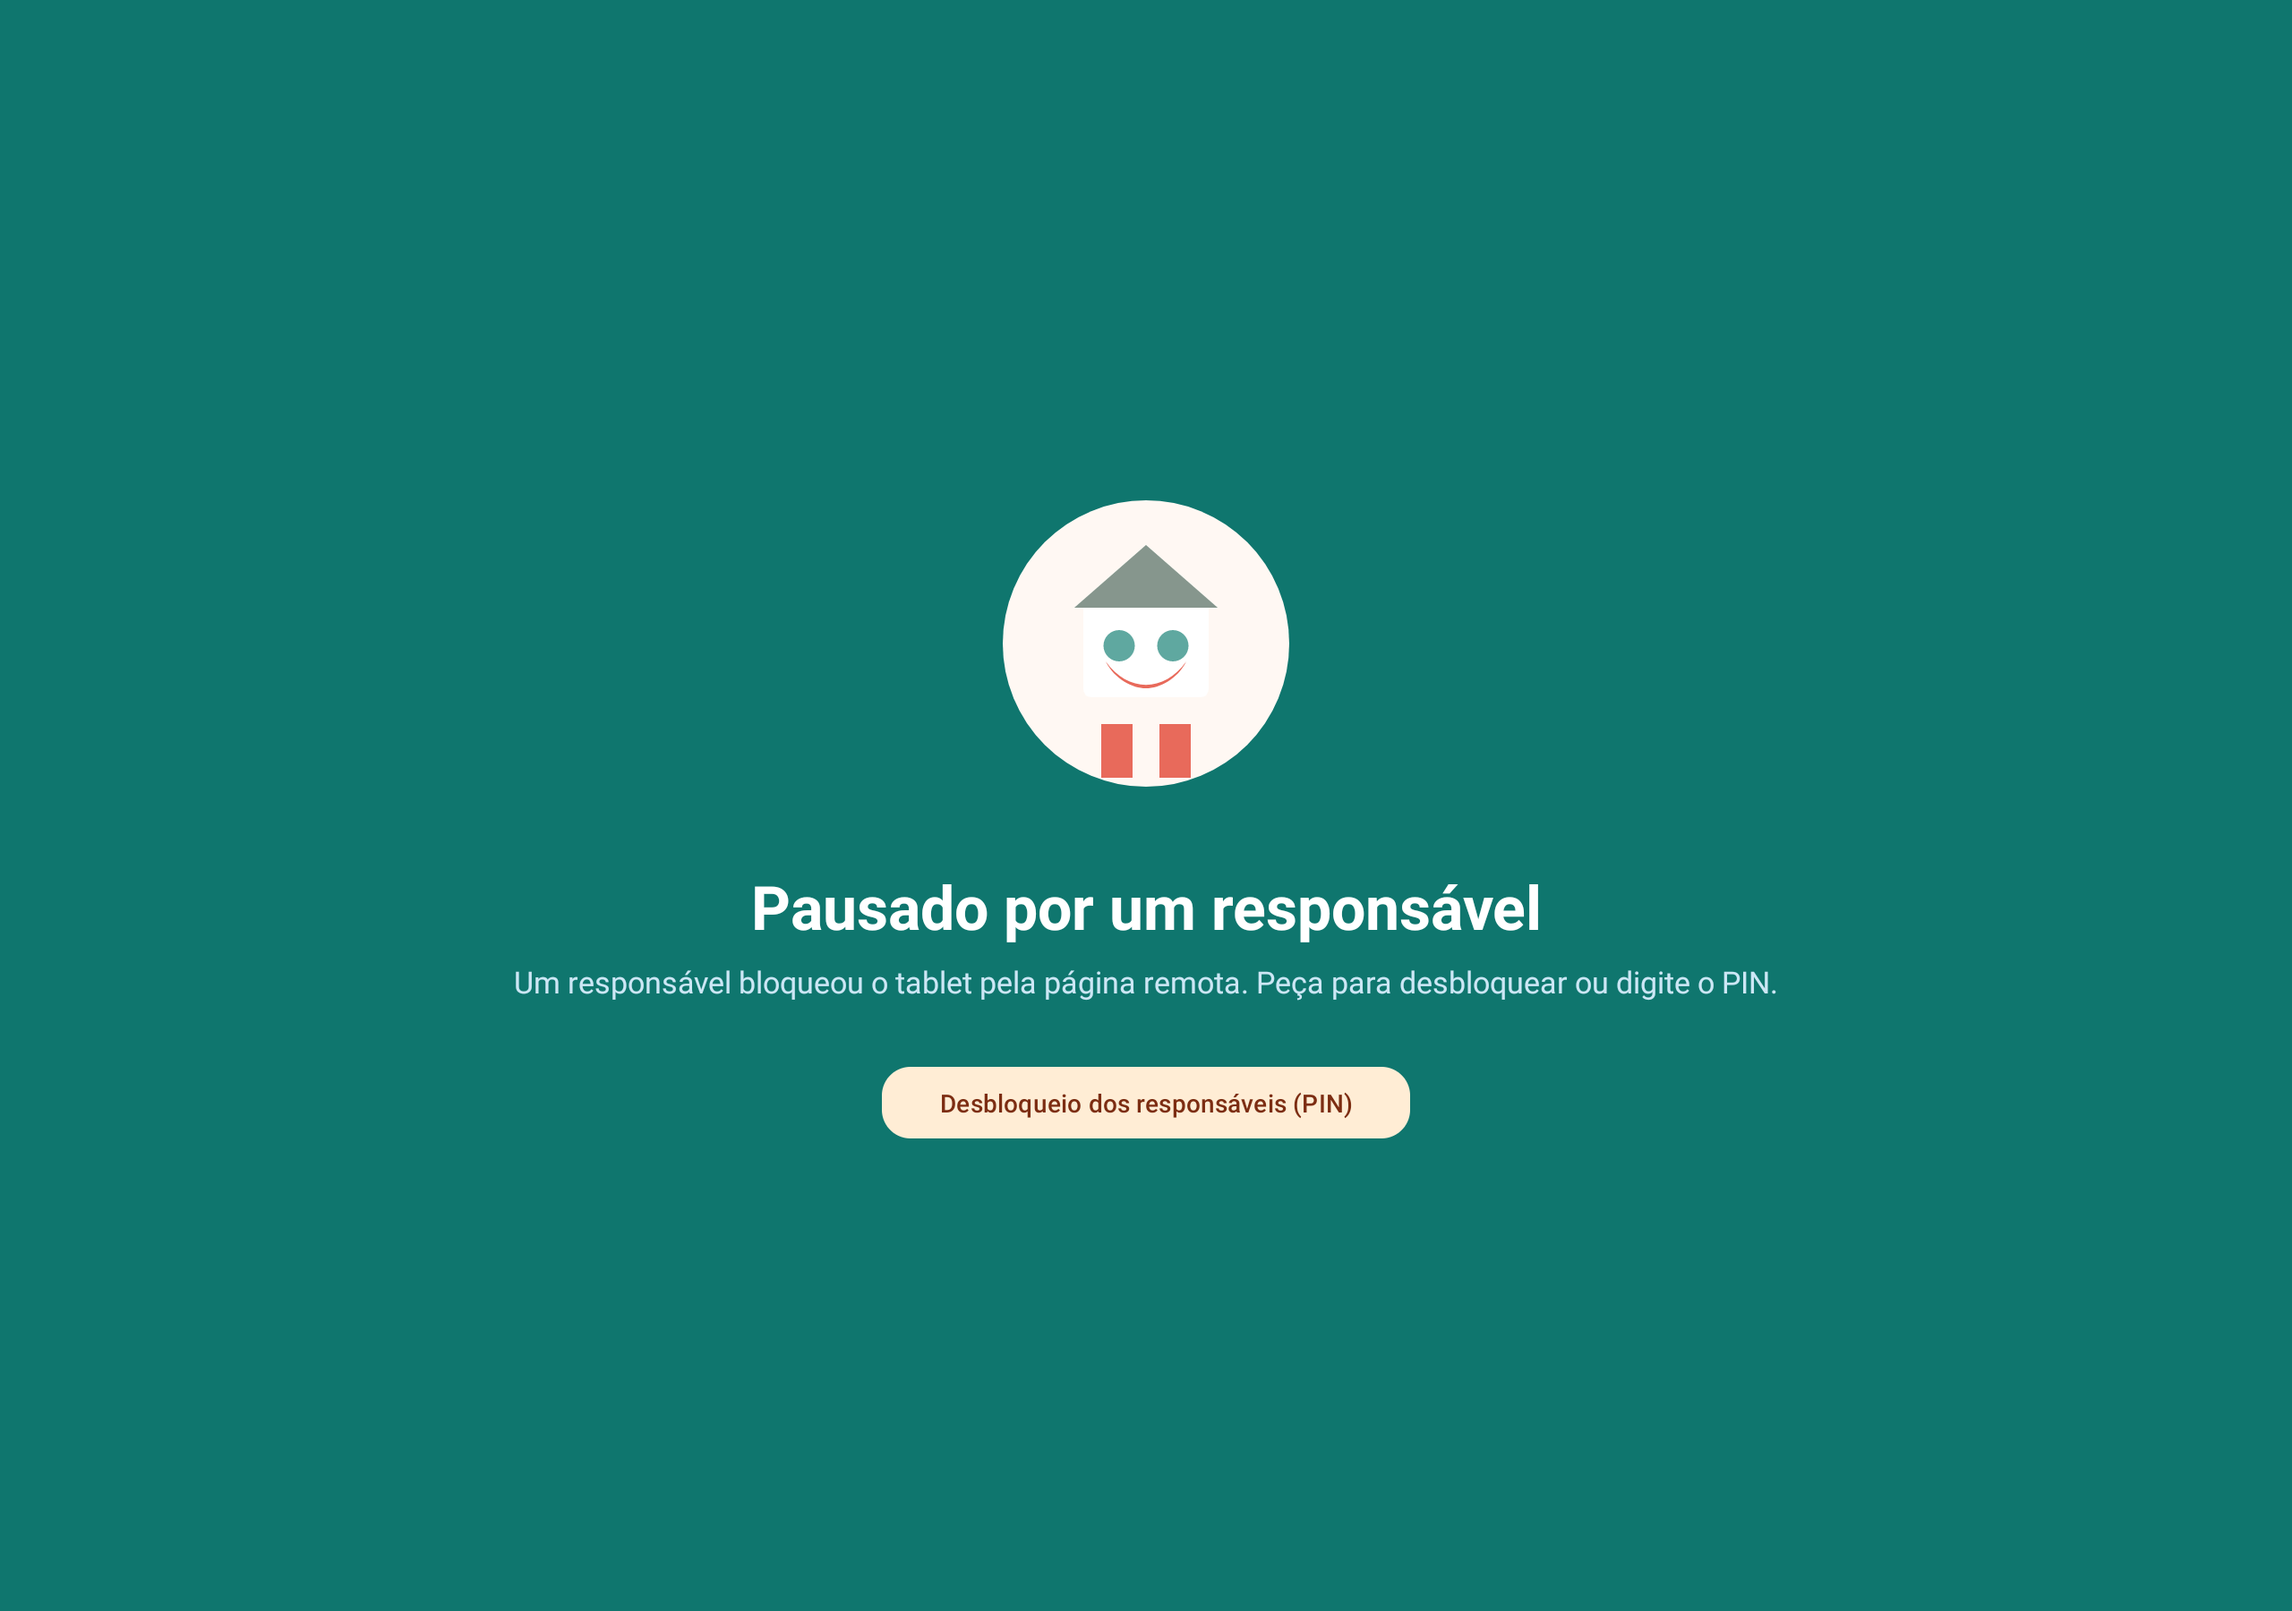
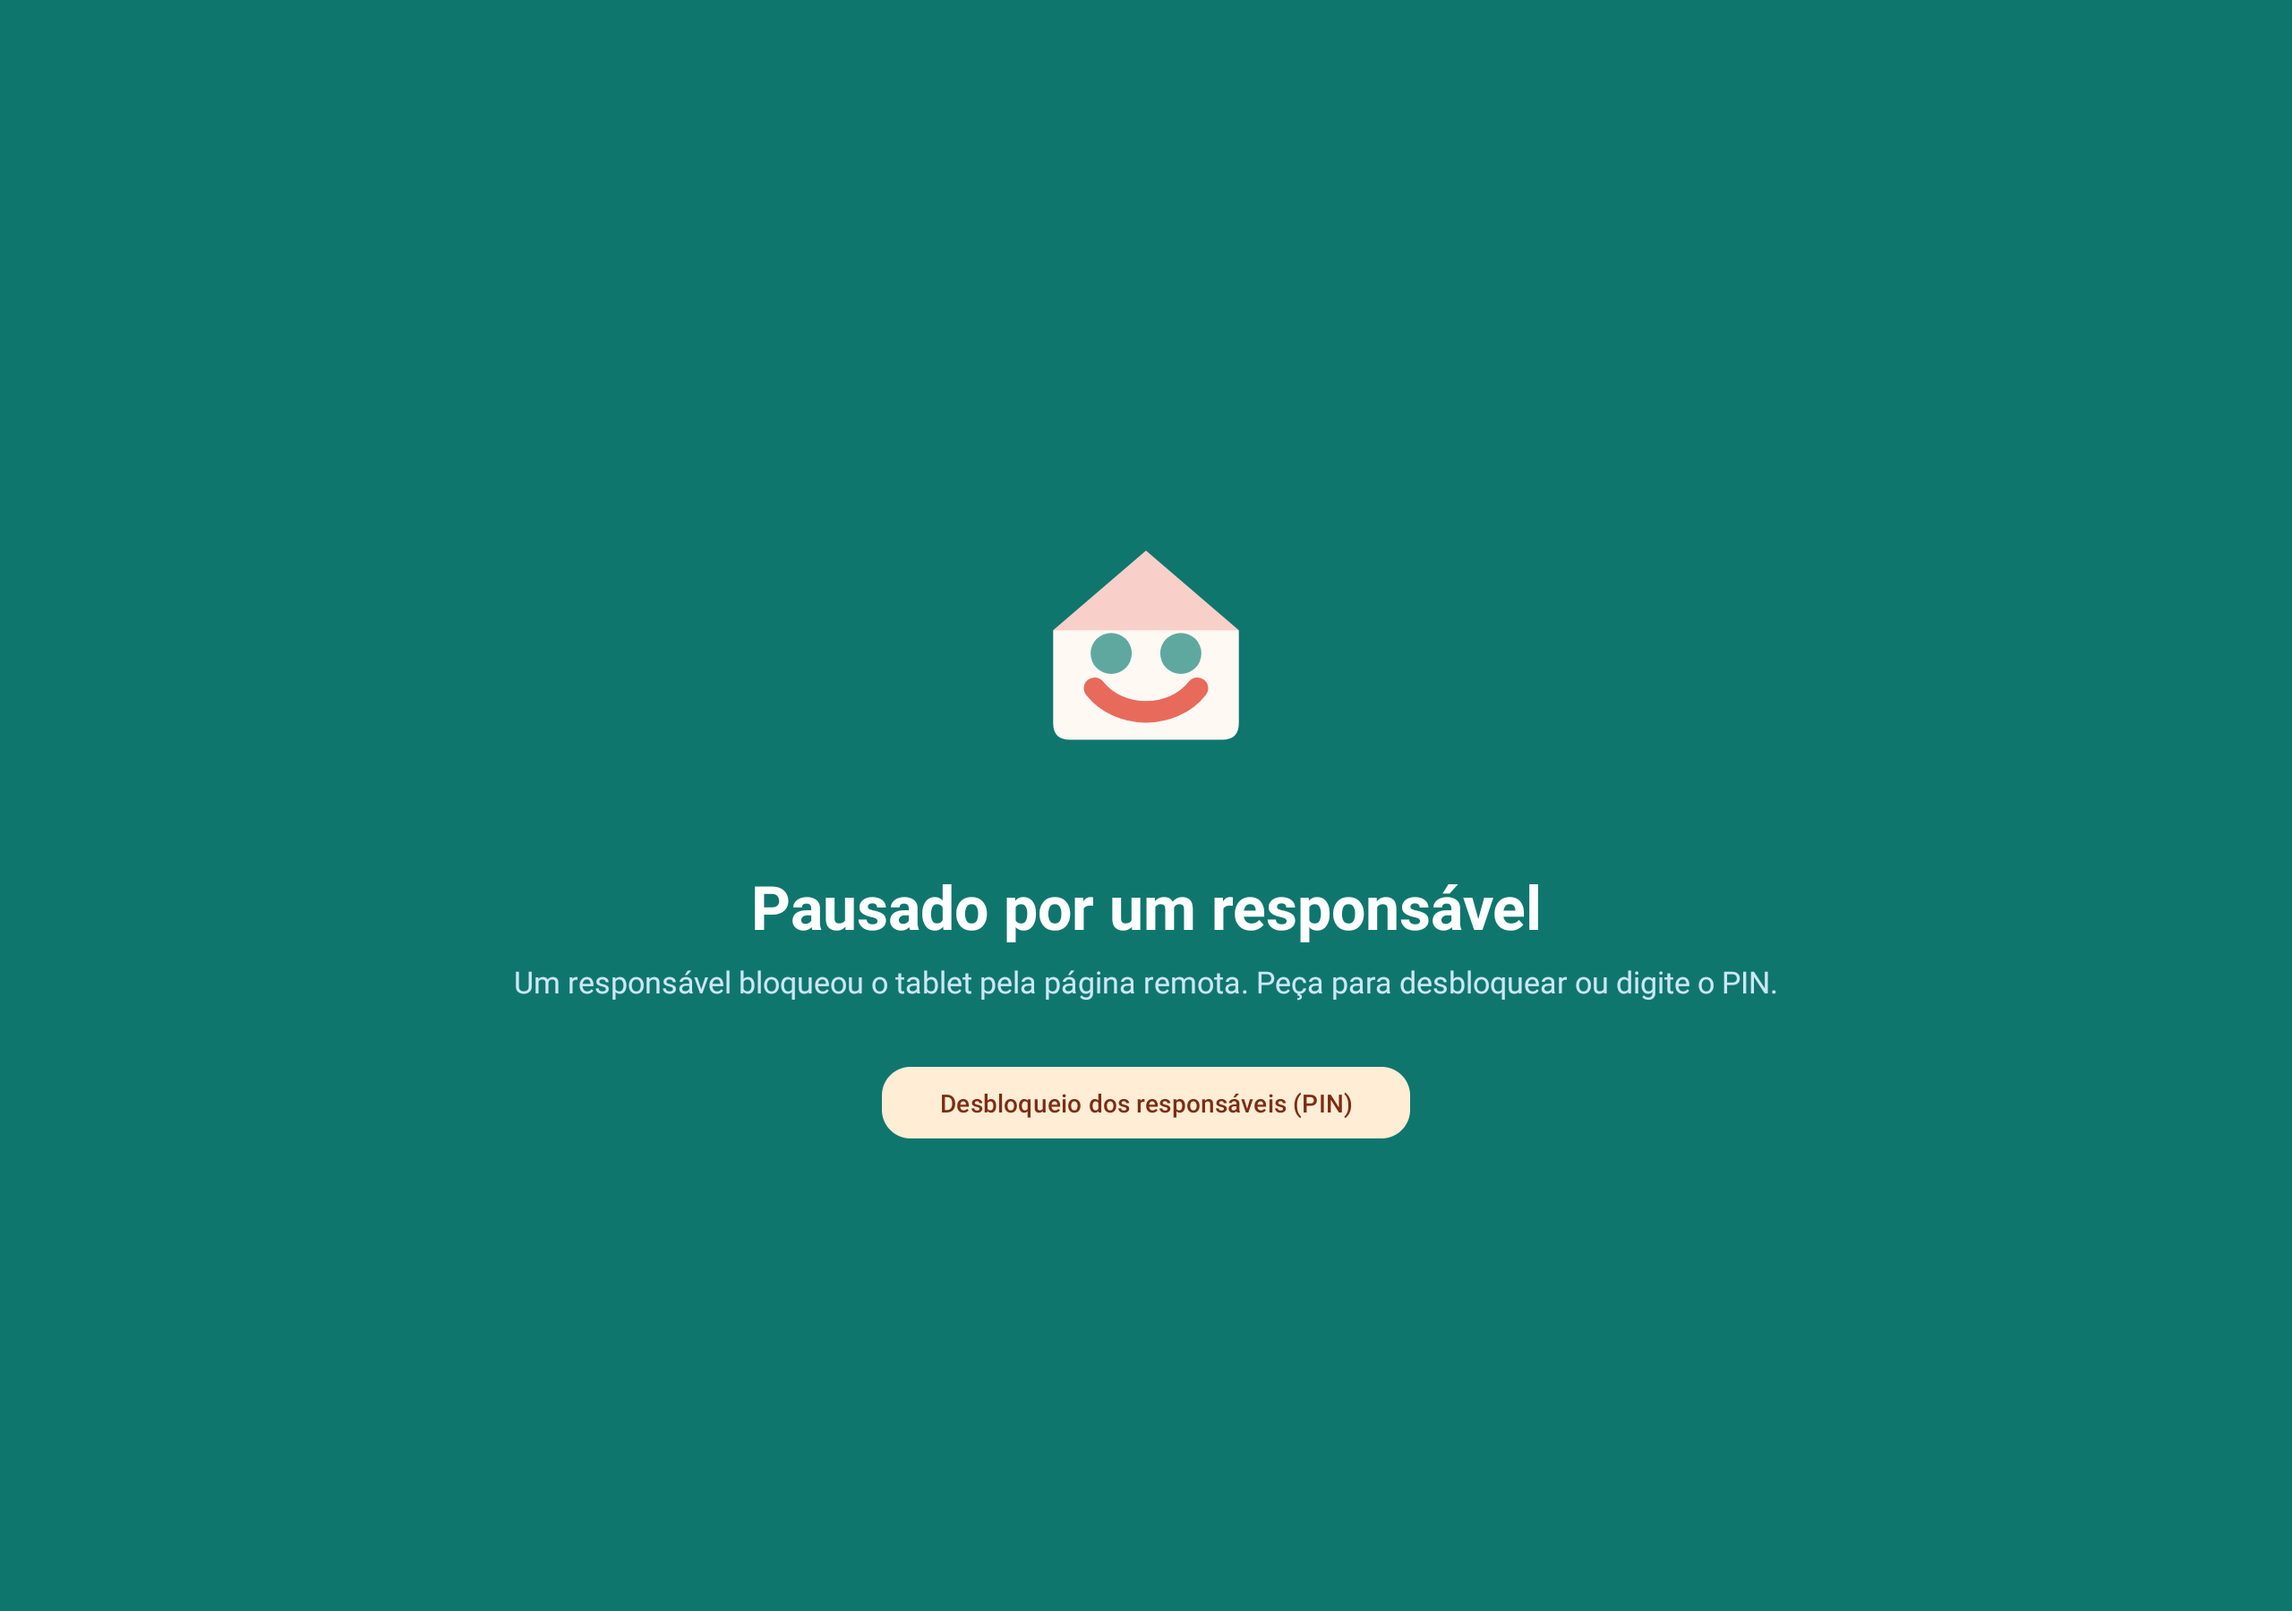
Fix remote locked UI washout and reuse official KidsHome mark
Remove opacity fade on the remote dashboard so the locked phone page
stays fully legible, with a Bloqueado banner and Desbloquear as primary.
Point lock-screen and web header marks at the official brand vectors.

Changed region(s): [[0.4375, 0.3111, 0.5625, 0.4978]]

diff --git a/app/src/main/assets/remote/style.css b/app/src/main/assets/remote/style.css
@@ -55,7 +55,8 @@ html, body {
   height: 56px;
   border-radius: 16px;
   box-shadow: 0 8px 20px rgba(232, 106, 91, 0.22);
-  background: #FFF8F3;
+  display: block;
+  background: transparent;
 }
 .brand-mark {
   margin: 0;
@@ -78,19 +79,24 @@ html, body {
   animation: rise 0.9s ease both;
 }
 
+/* Transform-only: opacity fades made locked screenshots / late paints look washed out. */
 @keyframes rise {
-  from { opacity: 0; transform: translateY(10px); }
-  to { opacity: 1; transform: translateY(0); }
+  from { transform: translateY(10px); }
+  to { transform: translateY(0); }
 }
 
 .panel {
   margin-top: 22px;
   padding: 18px;
-  background: var(--card);
+  background: #fff;
   border-radius: var(--radius);
   box-shadow: var(--shadow);
-  backdrop-filter: blur(8px);
-  animation: rise 0.75s ease both;
+  opacity: 1;
+  animation: rise 0.45s ease both;
+}
+
+.panel[hidden] {
+  display: none !important;
 }
 
 .panel h2 {
@@ -131,9 +137,16 @@ html, body {
   transition: transform 0.15s ease, background 0.15s ease;
 }
 .btn:active { transform: scale(0.97); }
-.btn.primary { background: var(--coral); color: #fff; width: 100%; margin-top: 8px; }
+.btn.primary { background: var(--coral); color: #fff; }
+#btnLogin.btn.primary { width: 100%; margin-top: 8px; }
+.actions.stack .btn.primary { width: auto; margin-top: 0; }
 .btn.danger { background: var(--danger); color: #fff; }
 .btn.teal { background: var(--teal); color: #fff; }
+.btn.secondary {
+  background: #fff;
+  color: var(--ink);
+  border: 1.5px solid rgba(42, 36, 32, 0.16);
+}
 .btn.ghost { background: transparent; box-shadow: none; color: var(--muted); width: 100%; margin-top: 18px; }
 
 .actions {
@@ -169,6 +182,49 @@ html, body {
 .chip.ok { background: rgba(95, 168, 160, 0.22); color: #2F6B64; }
 .chip.warn { background: rgba(232, 184, 74, 0.28); color: #7A5A12; }
 .chip.bad { background: rgba(232, 106, 91, 0.22); color: #8E3A31; }
+
+.lock-banner {
+  display: flex;
+  flex-direction: column;
+  gap: 4px;
+  margin: 0 0 16px;
+  padding: 14px 16px;
+  border-radius: 16px;
+  background: rgba(232, 106, 91, 0.14);
+  border: 2px solid var(--coral);
+  color: #8E3A31;
+}
+.lock-banner[hidden] { display: none !important; }
+.lock-banner strong {
+  font-size: 1.05rem;
+  letter-spacing: 0.01em;
+}
+.lock-banner span {
+  font-size: 0.9rem;
+  font-weight: 600;
+  opacity: 0.9;
+}
+
+#dashboard.is-locked .chip.bad {
+  background: var(--coral);
+  color: #fff;
+}
+
+#dashboard.is-locked #btnUnlock {
+  background: var(--coral);
+  color: #fff;
+  box-shadow: 0 8px 18px rgba(232, 106, 91, 0.28);
+}
+
+#dashboard.is-locked #btnLock {
+  background: #fff;
+  color: var(--ink);
+  border: 1.5px solid rgba(42, 36, 32, 0.16);
+}
+
+@media (prefers-reduced-motion: reduce) {
+  .bg, .brand-row, .brand h1, .lede, .panel, .toast { animation: none !important; }
+}
 
 .meter {
   height: 12px;

diff --git a/app/src/main/assets/remote/app.js b/app/src/main/assets/remote/app.js
@@ -37,6 +37,8 @@
       added: "Time added",
       lockedNow: "Tablet locked",
       unlockedNow: "Remote lock cleared",
+      lockBannerTitle: "Locked",
+      lockBannerHint: "The tablet is locked. Unlock when ready — you can still add time.",
       appLimit: "limit %n% min"
     },
     "pt-BR": {
@@ -74,6 +76,8 @@
       added: "Tempo adicionado",
       lockedNow: "Tablet bloqueado",
       unlockedNow: "Bloqueio remoto removido",
+      lockBannerTitle: "Bloqueado",
+      lockBannerHint: "O tablet está bloqueado. Desbloqueie quando quiser — ainda dá para adicionar tempo.",
       appLimit: "limite %n% min"
     }
   };
@@ -161,19 +165,36 @@
       .replace("%remaining%", String(state.remainingMinutes));
   }
 
+  function lockReasonLabel(state) {
+    if (state.blockReason === "remote") return t.remote;
+    if (state.blockReason === "bedtime") return t.bedtime;
+    if (state.blockReason === "daily_limit") return t.daily;
+    return t.locked;
+  }
+
   function renderState(state) {
     var chip = $("stateChip");
+    var dash = $("dashboard");
+    var banner = $("lockBanner");
     var parts = [];
     parts.push(state.kidMode ? t.kidOn : t.kidOff);
     if (state.locked) {
-      if (state.blockReason === "remote") parts.push(t.remote);
-      else if (state.blockReason === "bedtime") parts.push(t.bedtime);
-      else if (state.blockReason === "daily_limit") parts.push(t.daily);
-      else parts.push(t.locked);
+      parts.push(lockReasonLabel(state));
       chip.className = "chip bad";
+      dash.classList.add("is-locked");
+      banner.hidden = false;
+      $("lockBannerTitle").textContent = t.lockBannerTitle;
+      $("lockBannerHint").textContent = t.lockBannerHint;
+      // Unlock is the primary action while locked; add-time stays available.
+      $("btnUnlock").className = "btn primary";
+      $("btnLock").className = "btn secondary";
     } else {
       parts.push(t.unlocked);
       chip.className = "chip ok";
+      dash.classList.remove("is-locked");
+      banner.hidden = true;
+      $("btnUnlock").className = "btn teal";
+      $("btnLock").className = "btn danger";
     }
     if (state.scheduleActive) parts.push(t.schedule);
     chip.textContent = parts.join(" · ");

diff --git a/app/src/main/assets/remote/index.html b/app/src/main/assets/remote/index.html
@@ -35,6 +35,10 @@
     </section>
 
     <section id="dashboard" class="panel" hidden>
+      <div id="lockBanner" class="lock-banner" hidden>
+        <strong id="lockBannerTitle">Locked</strong>
+        <span id="lockBannerHint"></span>
+      </div>
       <div class="status-row">
         <span id="stateChip" class="chip">…</span>
         <span id="childChip" class="chip soft"></span>
@@ -58,8 +62,8 @@
           <button id="btnCustom" class="btn" type="button">…</button>
         </div>
         <div class="actions stack">
-          <button id="btnLock" class="btn danger" type="button">Lock now</button>
           <button id="btnUnlock" class="btn teal" type="button">Unlock</button>
+          <button id="btnLock" class="btn danger" type="button">Lock now</button>
         </div>
       </section>
 

diff --git a/app/src/main/java/io/github/marcelsavegnago/kidshome/ScreenTimeLockActivity.java b/app/src/main/java/io/github/marcelsavegnago/kidshome/ScreenTimeLockActivity.java
@@ -63,7 +63,8 @@ public class ScreenTimeLockActivity extends AppCompatActivity {
         } else if (reason == ScreenTimeTracker.BlockReason.REMOTE) {
             title.setText(R.string.remote_lock_title);
             message.setText(R.string.remote_lock_message);
-            illustration.setImageResource(R.drawable.illust_remote_lock);
+            // Official KidsHome mark (same vector as launcher foreground / brand SVG).
+            illustration.setImageResource(R.drawable.ic_home_foreground);
             root.setBackgroundColor(ContextCompat.getColor(this, R.color.lock_bg_timeup));
             getWindow().setStatusBarColor(ContextCompat.getColor(this, R.color.lock_bg_timeup));
             getWindow().setNavigationBarColor(ContextCompat.getColor(this, R.color.lock_bg_timeup));

diff --git a/README.md b/README.md
@@ -57,10 +57,10 @@ Real captures from an Android tablet emulator (1280×800) with demo child name *
 | ![Report](docs/screenshots/12-weekly-report.png) | ![Celebration](docs/screenshots/13-star-celebration.png) | ![Bedtime](docs/screenshots/14-bedtime.png) |
 | Local usage chart | Earn-time celebration | Friendly bedtime lock |
 
-| Remote settings | Phone page | After +time | Remote lock |
-|:---:|:---:|:---:|:---:|
-| ![Remote settings](docs/screenshots/1.5.0/01-remote-settings-qr.png) | ![Remote page](docs/screenshots/1.5.0/02-remote-phone-page.png) | ![After add](docs/screenshots/1.5.0/03-remote-after-add-time.png) | ![Remote lock](docs/screenshots/1.5.0/04-remote-lock-tablet.png) |
-| URL + QR in parent settings | Usage & state on phone | Time added remotely | Lock now on tablet |
+| Remote settings | Phone page | After +time | Remote lock | Phone · locked |
+|:---:|:---:|:---:|:---:|:---:|
+| ![Remote settings](docs/screenshots/1.5.0/01-remote-settings-qr.png) | ![Remote page](docs/screenshots/1.5.0/02-remote-phone-page.png) | ![After add](docs/screenshots/1.5.0/03-remote-after-add-time.png) | ![Remote lock](docs/screenshots/1.5.0/04-remote-lock-tablet.png) | ![Phone locked](docs/screenshots/1.5.0/09-remote-phone-locked.png) |
+| URL + QR in parent settings | Usage & state on phone | Time added remotely | Lock now on tablet | Kid mode on · remote lock |
 
 | Remote settings (pt-BR) | Phone page (pt-BR) | Lock screen (pt-BR) | Phone · kid mode locked (pt-BR) |
 |:---:|:---:|:---:|:---:|

diff --git a/README.pt-BR.md b/README.pt-BR.md
@@ -87,6 +87,11 @@ Desligado por padrão. No hub dos responsáveis abra **Controle remoto**, ative 
 | ![Remote settings pt-BR](docs/screenshots/1.5.0/05-pt-remote-settings-qr.png) | ![Remote page pt-BR](docs/screenshots/1.5.0/06-pt-remote-phone-page.png) | ![Remote lock pt-BR](docs/screenshots/1.5.0/07-pt-remote-lock-tablet.png) | ![Phone locked pt-BR](docs/screenshots/1.5.0/08-pt-remote-phone-locked.png) |
 | Configurações + QR | Uso e estado | Bloqueio remoto | Modo criança ligado · bloqueio remoto |
 
+| Celular · bloqueado (EN) | Bloqueio no tablet (EN) |
+|:---:|:---:|
+| ![Phone locked EN](docs/screenshots/1.5.0/09-remote-phone-locked.png) | ![Remote lock EN](docs/screenshots/1.5.0/04-remote-lock-tablet.png) |
+| Modo criança ligado · bloqueio remoto | Pausado por um responsável |
+
 ## Dispositivos suportados
 
 | Modo | Melhor para | Como funciona |
